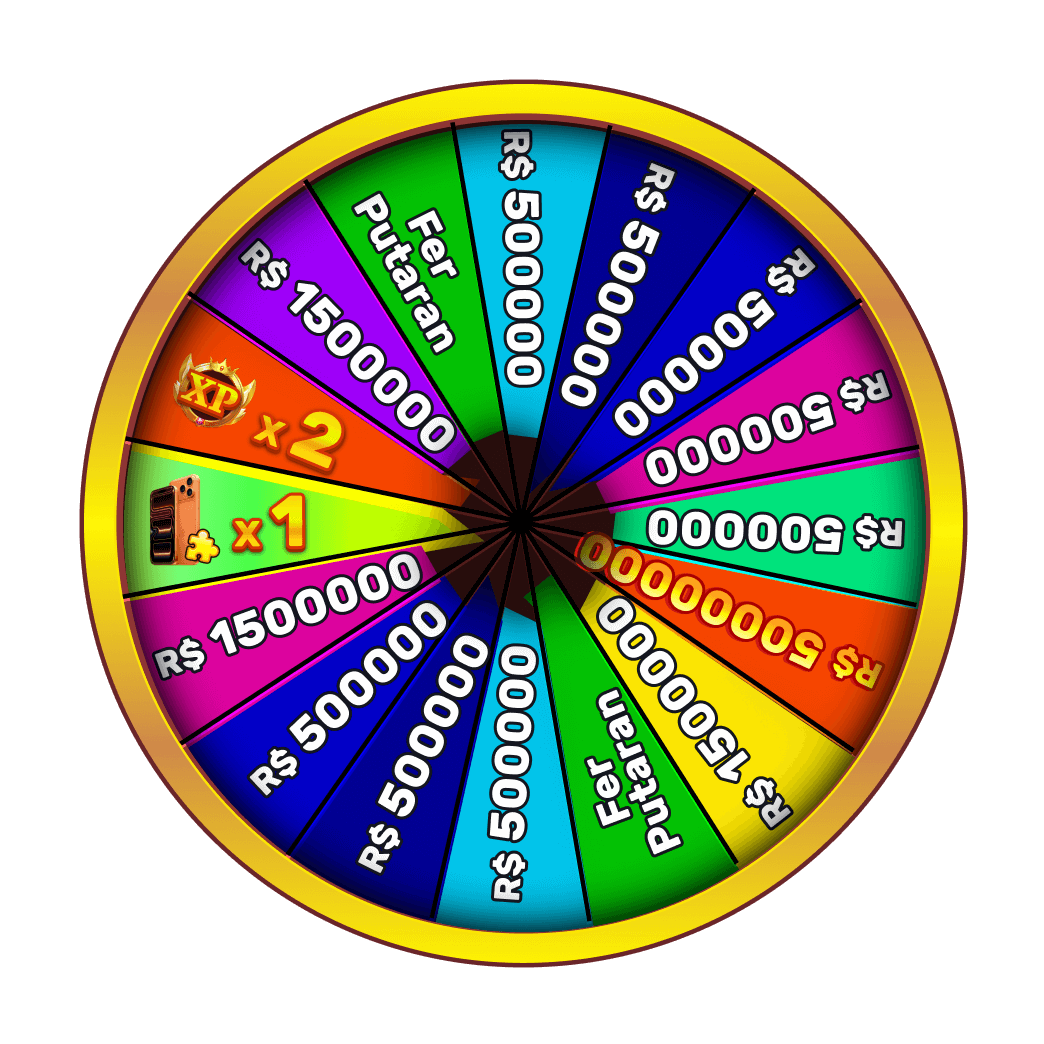
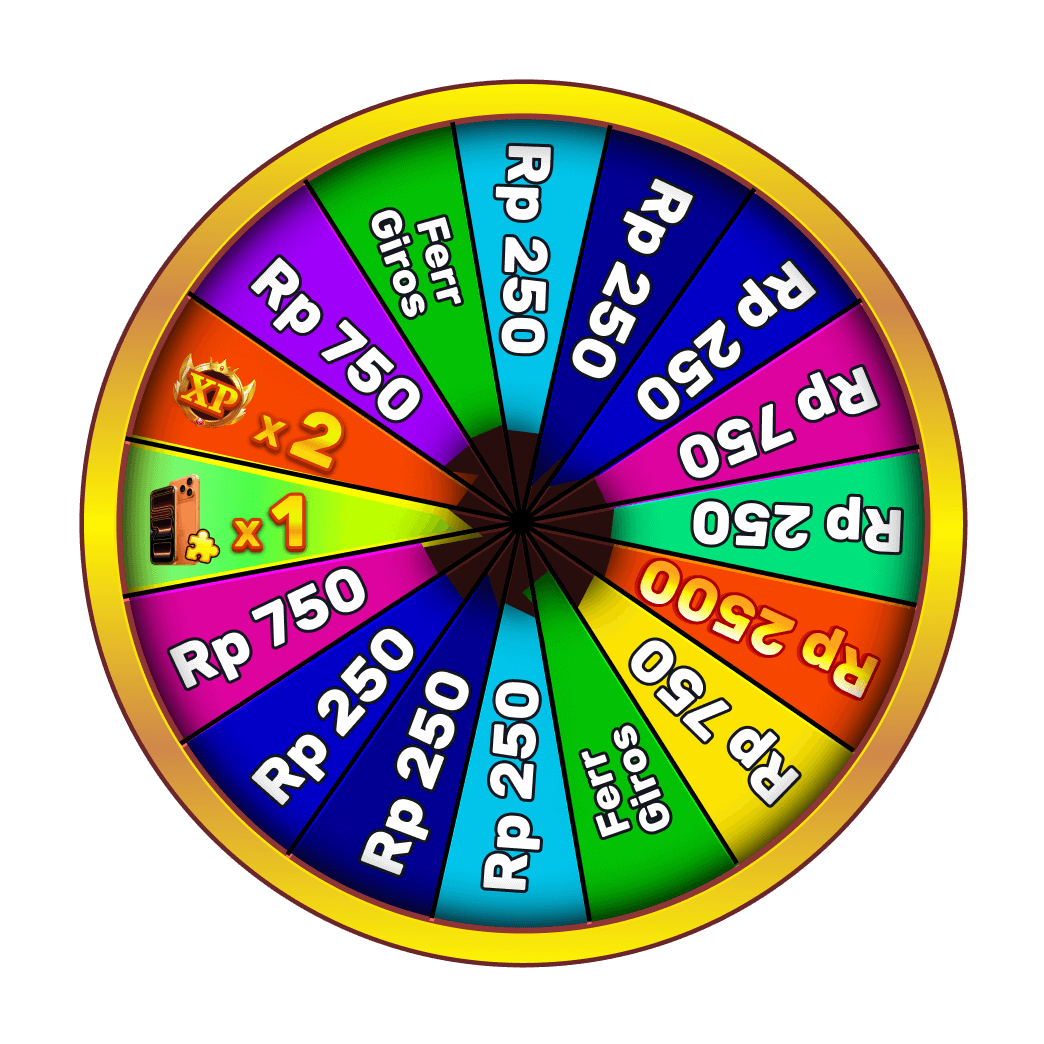
fix bug

diff --git a/lib/ss_pages/wheeee/vieee/wheel_detail.dart b/lib/ss_pages/wheeee/vieee/wheel_detail.dart
@@ -18,6 +18,7 @@ import 'package:slots_132/jc_gj/jc_widget/font_gradient_border.dart';
 import 'package:slots_132/jc_gj/log.dart';
 import 'package:slots_132/ss_common/model/gift_reward_model.dart';
 import 'package:slots_132/ss_common/ss_event_bus.dart';
+import 'package:slots_132/ss_pages/maiiiiii/main_controller.dart';
 import 'package:slots_132/ss_pages/wheeee/whe_controller.dart';
 
 class SSWheelDetail extends StatefulWidget {
@@ -302,7 +303,7 @@ class _ControlledWheelState extends State<ControlledWheel>
   Map<int, GiftRewardModel> vIndex_vReward = {
     0: GiftRewardModel(
       rewardModelType: EnumGiftRewardModel.cash,
-      num: 50,
+      num: 50 * MainController.countryBeisu,
       img: Assets.img.phoneSuip.path,
     ),
     1: GiftRewardModel(
@@ -312,7 +313,7 @@ class _ControlledWheelState extends State<ControlledWheel>
     ),
     2: GiftRewardModel(
       rewardModelType: EnumGiftRewardModel.cash,
-      num: 150,
+      num: 150 * MainController.countryBeisu,
       img: Assets.img.phoneSuip.path,
     ),
     3: GiftRewardModel(
@@ -328,17 +329,17 @@ class _ControlledWheelState extends State<ControlledWheel>
 
     5: GiftRewardModel(
       rewardModelType: EnumGiftRewardModel.cash,
-      num: 150,
+      num: 150 * MainController.countryBeisu,
       img: Assets.img.phoneSuip.path,
     ),
     6: GiftRewardModel(
       rewardModelType: EnumGiftRewardModel.cash,
-      num: 50,
+      num: 50 * MainController.countryBeisu,
       img: Assets.img.phoneSuip.path,
     ),
     7: GiftRewardModel(
       rewardModelType: EnumGiftRewardModel.cash,
-      num: 50,
+      num: 50 * MainController.countryBeisu,
       img: Assets.img.phoneSuip.path,
     ),
   };

diff --git a/lib/ss_pages/zhifu/dialoooo/withddd_jindu3.dart b/lib/ss_pages/zhifu/dialoooo/withddd_jindu3.dart
@@ -25,7 +25,7 @@ class OverlayWithddJindu3 {
           onClose: () {
             close();
             ssLogggg("====WithddJindu3=close");
-            Navigator.maybePop(Get.context!);
+            // Navigator.maybePop(Get.context!);
           },
         );
       },

diff --git a/lib/ss_pages/wheeee/whe_controller.dart b/lib/ss_pages/wheeee/whe_controller.dart
@@ -142,6 +142,7 @@ class WheController extends GetxController {
       if(!result){
         return;
       }
+
       OverlayCommonGet().show(
         money: money,
         exp: exp,
